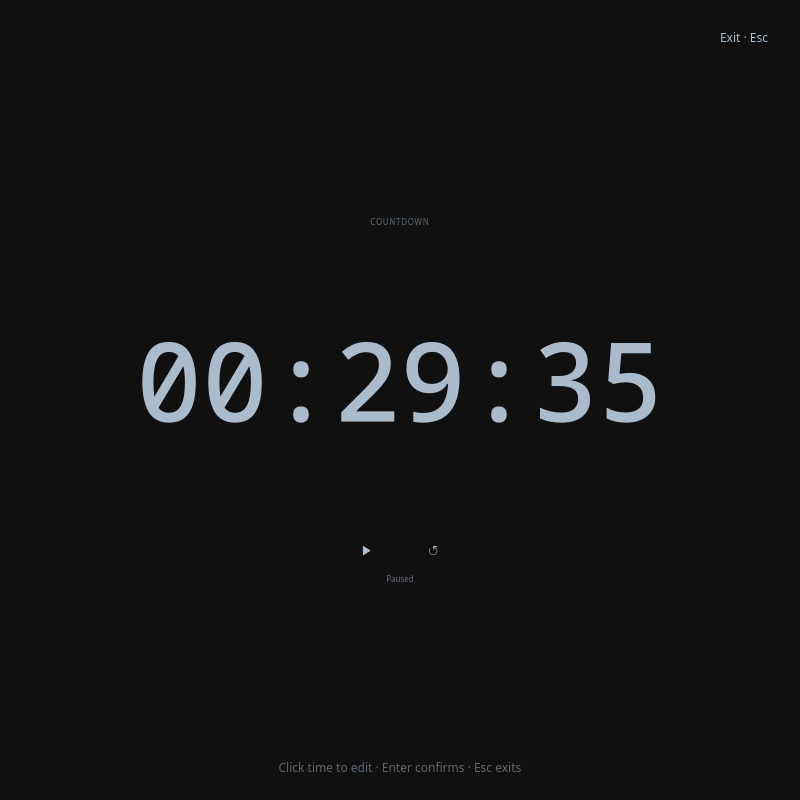
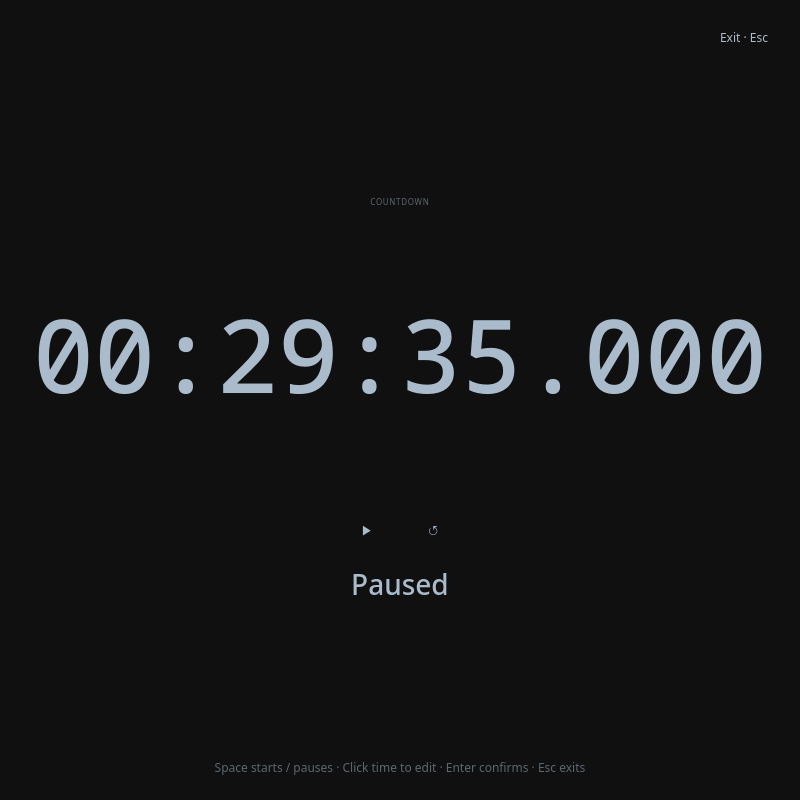
update

diff --git a/widget-mode/core/plasmoid/contents/ui/ClockFace.qml b/widget-mode/core/plasmoid/contents/ui/ClockFace.qml
@@ -11,7 +11,16 @@ Item {
     property color ink: "#f5f5f4"
     property string style: "minimal"
     property bool focusPresentation: false
-    readonly property real seconds: reading.seconds || 0
+    property real sampledAt: Date.now()
+    property real animationNow: sampledAt
+    onReadingChanged: { sampledAt = Date.now(); animationNow = sampledAt }
+    readonly property real elapsed: reading.running && !owner.error ? Math.max(0, Math.min(1, (animationNow - sampledAt) / 1000)) : 0
+    readonly property real seconds: Math.max(0, (reading.seconds || 0) + (kind === "countdown" ? -elapsed : elapsed))
+    Timer {
+        interval: 16; repeat: true
+        running: face.visible && face.reading.running === true
+        onTriggered: face.animationNow = Date.now()
+    }
     readonly property bool ring: style === "ring"
     property bool editing: false
     property string editError: ""
@@ -55,7 +64,12 @@ Item {
         editing = false
         editError = ""
     }
-    function timeText(value) {
+    function timeText(value, milliseconds = false) {
+        if (milliseconds) {
+            const ms = Math.max(0, Math.floor(value * 1000))
+            const whole = Math.floor(ms / 1000)
+            return String(Math.floor(whole / 3600)).padStart(2, "0") + ":" + String(Math.floor(whole / 60) % 60).padStart(2, "0") + ":" + String(whole % 60).padStart(2, "0") + "." + String(ms % 1000).padStart(3, "0")
+        }
         const seconds = Math.max(0, kind === "countdown" ? Math.ceil(value) : Math.floor(value))
         const hours = Math.floor(seconds / 3600)
         return (String(hours).padStart(2, "0") + ":") + String(Math.floor(seconds / 60) % 60).padStart(2, "0") + ":" + String(seconds % 60).padStart(2, "0")
@@ -72,15 +86,15 @@ Item {
         spacing: 0
     Text { Layout.fillWidth: true; text: face.kind === "countdown" ? "COUNTDOWN" : "STOPWATCH"; color: face.ink; opacity: 0.5; font.pixelSize: 8; horizontalAlignment: Text.AlignHCenter; font.letterSpacing: 0.7 }
         SmallButton {
-            objectName: "countdownFocus"
-            visible: face.kind === "countdown" && !face.focusPresentation
+            objectName: face.kind + "Focus"
+            visible: !face.focusPresentation
             implicitWidth: 22; implicitHeight: 24
             text: "⛶"; ink: face.ink
             enabled: face.owner.session.length > 0 && !face.editing
-            Accessible.name: "Open countdown in fullscreen Focus Mode"
+            Accessible.name: "Open " + face.kind + " in fullscreen Focus Mode"
             ToolTip.visible: hovered
             ToolTip.text: "Focus Mode"
-            onClicked: face.owner.openFocus()
+            onClicked: face.owner.openFocus(face.kind)
         }
     }
     Item {
@@ -117,13 +131,13 @@ Item {
             anchors.centerIn: parent
             width: parent.width
             visible: !face.editing
-            text: face.timeText(face.seconds)
+            text: face.timeText(face.seconds, true)
             color: face.ink
-            font.pixelSize: face.focusPresentation ? (face.ring ? 48 : 110) : face.ring ? 14 : 20
+            font.pixelSize: face.focusPresentation ? (face.ring ? 30 : 110) : face.ring ? 10 : 20
             font.family: face.style === "digital" ? "monospace" : ""
             font.weight: face.style === "digital" ? Font.Medium : Font.Light
             horizontalAlignment: Text.AlignHCenter
-            fontSizeMode: Text.Fit; minimumPixelSize: 10
+            fontSizeMode: Text.Fit; minimumPixelSize: face.focusPresentation ? 10 : 8
             MouseArea { anchors.fill: parent; cursorShape: Qt.IBeamCursor; onClicked: face.beginEdit() }
         }
         TextField {
@@ -174,6 +188,16 @@ Item {
         }
 
     }
-    Text { Layout.fillWidth: true; text: face.reading.finished ? "Done" : face.reading.running ? "Running" : "Paused"; color: face.ink; opacity: 0.55; font.pixelSize: 8; horizontalAlignment: Text.AlignHCenter }
+    Text {
+        objectName: face.kind + "Status"
+        Layout.fillWidth: true
+        Layout.topMargin: face.focusPresentation ? 12 : 0
+        text: face.reading.finished ? "Done" : face.reading.running ? "Running" : "Paused"
+        color: face.ink
+        opacity: face.focusPresentation ? 1 : 0.55
+        font.pixelSize: face.focusPresentation ? 28 : 8
+        font.weight: face.focusPresentation ? Font.DemiBold : Font.Normal
+        horizontalAlignment: Text.AlignHCenter
+    }
     }
 }

diff --git a/widget-mode/core/plasmoid/contents/ui/CountdownFocus.qml b/widget-mode/core/plasmoid/contents/ui/CountdownFocus.qml
@@ -4,13 +4,14 @@ import QtQuick.Window
 Window {
     id: focusWindow
     required property var owner
-    objectName: "countdownFocusWindow"
-    title: "Countdown · Focus Mode"
+    readonly property string kind: owner.focusKind
+    objectName: kind + "FocusWindow"
+    title: (kind === "countdown" ? "Countdown" : "Stopwatch") + " · Focus Mode"
     width: 960; height: 640
     color: "#101010"
     visible: true
     visibility: Window.FullScreen
-    readonly property color ink: /^#[0-9a-fA-F]{6}$/.test(owner.preferences.countdownColor || "") ? owner.preferences.countdownColor : "#f5f5f4"
+    readonly property color ink: /^#[0-9a-fA-F]{6}$/.test(owner.preferences[kind + "Color"] || "") ? owner.preferences[kind + "Color"] : "#f5f5f4"
     function exitFocus() { owner.focusOpen = false }
     onClosing: close => {
         close.accepted = false
@@ -18,8 +19,17 @@ Window {
     }
     Component.onCompleted: { requestActivate(); clock.forceActiveFocus() }
     Shortcut { sequence: "Escape"; onActivated: focusWindow.exitFocus() }
+    Shortcut {
+        sequence: "Space"
+        autoRepeat: false
+        enabled: !clock.editing
+        onActivated: {
+            if (focusWindow.owner.session && !focusWindow.owner.busy && !clock.reading.finished)
+                focusWindow.owner.control(focusWindow.kind, clock.reading.running ? "pause" : "start")
+        }
+    }
     SmallButton {
-        objectName: "exitCountdownFocus"
+        objectName: focusWindow.kind + "ExitFocus"
         anchors.top: parent.top; anchors.right: parent.right
         anchors.margins: 24
         text: "Exit · Esc"; ink: focusWindow.ink
@@ -27,20 +37,20 @@ Window {
     }
     ClockFace {
         id: clock
-        objectName: "focusCountdownFace"
+        objectName: focusWindow.kind === "countdown" ? "focusCountdownFace" : "focusStopwatchFace"
         anchors.centerIn: parent
         width: Math.max(100, Math.min(900, focusWindow.width - 64))
         height: implicitHeight
         owner: focusWindow.owner
-        kind: "countdown"
+        kind: focusWindow.kind
         focusPresentation: true
         ink: focusWindow.ink
-        style: owner.preferences.countdownStyle || "minimal"
+        style: owner.preferences[kind + "Style"] || "minimal"
     }
     Text {
         anchors.bottom: parent.bottom; anchors.horizontalCenter: parent.horizontalCenter
         anchors.bottomMargin: 24
-        text: focusWindow.owner.error || "Click time to edit · Enter confirms · Esc exits"
+        text: focusWindow.owner.error || "Space starts / pauses · Click time to edit · Enter confirms · Esc exits"
         color: focusWindow.ink; opacity: 0.5
         font.pixelSize: 12
         width: parent.width - 48

diff --git a/widget-mode/core/tests/tst_power_timers.qml b/widget-mode/core/tests/tst_power_timers.qml
@@ -139,7 +139,7 @@ Item {
             keyClick(Qt.Key_Return)
             compare(prefs.countdownSeconds, 30)
             tryVerify(() => owner.readings.countdown.seconds === 30 && !owner.readings.countdown.running, 3000)
-            compare(findChild(board, "countdownTime").text, "00:00:30")
+            compare(findChild(board, "countdownTime").text, "00:00:30.000")
             for (const sample of [{input: "23000", seconds: 9000, display: "02:30:00"},
                                   {input: "2935", seconds: 1775, display: "00:29:35"},
                                   {input: "5", seconds: 5, display: "00:00:05"},
@@ -149,7 +149,7 @@ Item {
                 keyClick(Qt.Key_Return)
                 compare(prefs.countdownSeconds, sample.seconds)
                 tryVerify(() => owner.readings.countdown.seconds === sample.seconds && !owner.readings.countdown.running, 3000)
-                compare(findChild(board, "countdownTime").text, sample.display)
+                compare(findChild(board, "countdownTime").text, sample.display + ".000")
             }
             for (const invalid of ["0", "2960", "6000", "240001", "1234567"]) {
                 enterTime("countdown", invalid)

diff --git a/widget-mode/core/tests/FocusFixture.qml b/widget-mode/core/tests/FocusFixture.qml
@@ -10,9 +10,12 @@ Window {
         property int stopwatchSeconds: 0
         property string countdownColor: "#aabbcc"
         property string countdownStyle: "digital"
+        property string stopwatchColor: "#88ddaa"
+        property string stopwatchStyle: "digital"
     }
     TimerOwner { id: timers; objectName: "focusTimerOwner"; preferences: prefs; active: true }
     ClockFace { anchors.fill: parent; owner: timers; kind: "countdown" }
+    ClockFace { x: 320; width: 200; height: 150; owner: timers; kind: "stopwatch" }
     function start() { timers.control("countdown", "start") }
     function preset(seconds) { timers.setTime("countdown", seconds) }
 }

diff --git a/widget-mode/core/plasmoid/contents/ui/TimerOwner.qml b/widget-mode/core/plasmoid/contents/ui/TimerOwner.qml
@@ -11,9 +11,10 @@ Item {
     property bool completionAcknowledged: false
     property bool countdownEditing: false
     property bool focusOpen: false
+    property string focusKind: "countdown"
     readonly property var focusWindow: focusLoader.item
-    function openFocus() {
-        if (active && session) focusOpen = true
+    function openFocus(kind = "countdown") {
+        if (active && session && ["countdown", "stopwatch"].includes(kind)) { focusKind = kind; focusOpen = true }
     }
     Loader {
         id: focusLoader

diff --git a/widget-mode/core/tests/focus_mode.py b/widget-mode/core/tests/focus_mode.py
@@ -55,19 +55,32 @@ assert reading()['running'] and reading()['seconds'] <= before
 QTest.qWait(100)
 assert window.findChild(QObject, 'focusCountdownFace').property('ink').name() == '#aabbcc', (window.property('ink').name(), warnings)
 wait_for(lambda: not owner.property('busy'))
-button(window, 'countdownToggle')
+QTest.keyClick(window, Qt.Key_Space)
+wait_for(lambda: not reading()['running'])
+status = window.findChild(QObject, 'countdownStatus')
+assert status.property('text') == 'Paused' and status.property('opacity') == 1
+assert status.property('font').pixelSize() == 28
+wait_for(lambda: not owner.property('busy'))
+QTest.keyClick(window, Qt.Key_Space)
+wait_for(lambda: reading()['running'])
+assert status.property('text') == 'Running'
+wait_for(lambda: not owner.property('busy'))
+QTest.keyClick(window, Qt.Key_Space)
 wait_for(lambda: not reading()['running'])
 paused = reading()['seconds']
 QTest.keyClick(window, Qt.Key_Escape)
 wait_for(lambda: not owner.property('focusOpen'))
 QTest.qWait(400)
 assert reading()['seconds'] == paused and owner.property('session') == token
-invoke(owner, 'openFocus')
+assert QMetaObject.invokeMethod(owner, 'openFocus', Q_ARG('QVariant', 'countdown'))
 window = owner.property('focusWindow')
 assert reading()['seconds'] == paused
 face = window.findChild(QObject, 'focusCountdownFace')
 invoke(face, 'beginEdit')
 field = window.findChild(QObject, 'countdownTimeInput')
+QTest.keyClick(window, Qt.Key_Space)
+QTest.qWait(100)
+assert not reading()['running'], 'Space in time editor must not start countdown'
 field.setProperty('text', '2935')
 QTest.keyClick(window, Qt.Key_Return)
 wait_for(lambda: reading()['seconds'] == 1775 and not reading()['running'])
@@ -79,7 +92,7 @@ field.setProperty('text', '123')
 QTest.keyClick(window, Qt.Key_Escape)
 wait_for(lambda: not owner.property('focusOpen'))
 assert not owner.property('countdownEditing') and reading()['seconds'] == 1775
-invoke(owner, 'openFocus')
+assert QMetaObject.invokeMethod(owner, 'openFocus', Q_ARG('QVariant', 'countdown'))
 window = owner.property('focusWindow')
 # Native close is an exit, and leaves the shared paused countdown intact.
 window.close()
@@ -87,15 +100,60 @@ wait_for(lambda: not owner.property('focusOpen'))
 assert owner.property('session') == token and reading()['seconds'] == 1775
 assert QMetaObject.invokeMethod(root, 'preset', Q_ARG('QVariant', 1))
 wait_for(lambda: reading()['seconds'] == 1 and not owner.property('busy'))
-invoke(owner, 'openFocus')
+assert QMetaObject.invokeMethod(owner, 'openFocus', Q_ARG('QVariant', 'countdown'))
 window = owner.property('focusWindow')
 face = window.findChild(QObject, 'focusCountdownFace')
 button(window, 'countdownToggle')
 wait_for(lambda: owner.property('countdownFinished'))
 assert face.property('blinking')
+QTest.keyClick(window, Qt.Key_Space)
+QTest.qWait(100)
+assert owner.property('countdownFinished'), 'Space must not reset a finished countdown'
 QTest.keyClick(window, Qt.Key_Return)
 wait_for(lambda: not owner.property('countdownFinished') and reading()['seconds'] == 1)
 assert not face.property('blinking') and not reading()['running']
+QTest.keyClick(window, Qt.Key_Escape)
+wait_for(lambda: not owner.property('focusOpen'))
+button(root, 'stopwatchFocus')
+window = owner.property('focusWindow')
+QTest.qWait(100)
+wait_for(lambda: window.visibility() == QWindow.FullScreen)
+face = window.findChild(QObject, 'focusStopwatchFace')
+assert face and face.property('ink').name() == '#88ddaa'
+assert owner.property('session') == token
+text = window.findChild(QObject, 'stopwatchTime')
+assert text.property('text') == '00:00:00.000'
+wait_for(lambda: not owner.property('busy'))
+QTest.keyClick(window, Qt.Key_Space)
+wait_for(lambda: owner.property('readings').toVariant()['stopwatch']['running'])
+QTest.qWait(120)
+assert text.property('text') != '00:00:00.000'
+assert len(text.property('text').split('.')[-1]) == 3
+assert reading()['seconds'] == 1 and not reading()['running'], 'Stopwatch must not control countdown'
+wait_for(lambda: not owner.property('busy'))
+QTest.keyClick(window, Qt.Key_Space)
+wait_for(lambda: not owner.property('readings').toVariant()['stopwatch']['running'])
+frozen = text.property('text')
+QTest.qWait(350)
+assert text.property('text') == frozen
+assert window.findChild(QObject, 'stopwatchStatus').property('text') == 'Paused'
+assert window.grabWindow().save(str(Path(__file__).parents[2] / 'docs/preview-stopwatch-focus.png'))
+QTest.keyClick(window, Qt.Key_Escape)
+wait_for(lambda: not owner.property('focusOpen'))
+button(root, 'stopwatchFocus')
+window = owner.property('focusWindow')
+QTest.qWait(100)
+assert window.findChild(QObject, 'stopwatchTime').property('text') == frozen
+face = window.findChild(QObject, 'focusStopwatchFace')
+invoke(face, 'beginEdit')
+window.findChild(QObject, 'stopwatchTimeInput').setProperty('text', '00:00:08')
+QTest.keyClick(window, Qt.Key_Return)
+wait_for(lambda: owner.property('readings').toVariant()['stopwatch']['seconds'] == 8)
+assert window.findChild(QObject, 'stopwatchTime').property('text') == '00:00:08.000'
+wait_for(lambda: not owner.property('busy'))
+button(window, 'stopwatchReset')
+wait_for(lambda: not owner.property('busy'))
+assert owner.property('readings').toVariant()['stopwatch']['seconds'] == 8
 # Hiding the module also destroys its fullscreen window and closes its session.
 owner.setProperty('active', False)
 wait_for(lambda: owner.property('focusWindow') is None)
@@ -104,4 +162,4 @@ assert not warnings, '\n'.join(warnings)
 root.close()
 engine.deleteLater()
 app.processEvents()
-print('Focus Mode: fullscreen, shared progress, pause, edit, Esc/close, completion Enter and module cleanup passed; no QML warnings.')
+print('Countdown/stopwatch fullscreen and milliseconds passed. Focus Mode: fullscreen, shared progress, Space start/pause, prominent status, edit, Esc/close, completion Enter and module cleanup passed; no QML warnings.')

diff --git a/widget-mode/core/description.md b/widget-mode/core/description.md
@@ -32,3 +32,15 @@ Two-column to-dos (1.12.0): NoteBoard composes the existing NoteCard and appende
 The countdown header opens a dedicated fullscreen Qt Quick window. TimerOwner lazily owns CountdownFocus and shares its existing backend session with the desktop clock; opening, closing, Escape and native window close do not configure/reset the timer. The fullscreen ClockFace retains configured color/style, optional-colon time editing, pause/reset and completion blinking with Enter acknowledgement. Its dark background is local to the focus window; the desktop remains transparent. Closing the module or destroying its owner releases the window. Focus Mode does not change the power profile or acquire sleep inhibition; use the existing Battery control if needed.
 
 `tests/focus_mode.py` uses an isolated timer session and actual Qt window/key events to verify fullscreen visibility, shared progress, pause, edit, Escape/native close, completion Enter and module cleanup. It runs offscreen and does not establish physical Wayland compositor behavior. Evidence and deployment results are recorded in [../docs/focus-mode-validation.md](../docs/focus-mode-validation.md).
+
+
+1.14.1: Fullscreen Focus Mode accepts Space to start/pause, without auto-repeat. The shortcut consumes Space outside the time editor and checks session/busy/finished state before controlling the countdown; time editing retains normal key handling. Focus status text uses 28px semibold at full opacity; desktop status remains compact. The focus integration test covers Space pause/resume, editor isolation, completion protection and status presentation.
+
+
+### Version 1.15 — stopwatch Focus Mode and milliseconds
+
+Both clocks now have a fullscreen header action. The existing CountdownFocus component selects TimerOwner.focusKind, including its title, controls, configured color/style and large status. A single lazily owned window uses the existing timer session; Space operates only the selected clock and is disabled during time editing.
+
+Desktop and fullscreen displays use HH:MM:SS.mmm. A local 16ms display timer interpolates between existing 250ms bridge samples; pause freezes at the backend fractional value, and countdown clamps at zero. Interpolation is capped at one second and stops on bridge errors. The backend remains the authoritative monotonic timer, including completion; the three digits describe display precision, not a guarantee of one-millisecond refresh/accuracy. Input and persisted presets remain whole seconds. Small ring typography is adjusted to fit the additional digits.
+
+Validation: expanded real-window offscreen integration tests cover stopwatch Space start/pause, independent countdown state, frozen fractional time, reopening, editing and reset, alongside the countdown completion/keyboard regressions. Nine power/timer QML checks passed. See [../docs/focus-mode-validation.md](../docs/focus-mode-validation.md) for deployment and limits.

diff --git a/widget-mode/core/README.md b/widget-mode/core/README.md
@@ -15,7 +15,7 @@ A transparent modular KDE Plasma 6 desktop widget.
 
 Run these commands from `monitor/widget-mode/core`. Start the bridge and preview in separate terminals. Stop the foreground bridge with Ctrl+C before installing the background service. After installation, add **someProducts-monitor** through the desktop's **Add Widgets** menu. See [../docs/README.md](../docs/README.md) for dependencies, configuration, service checks and removal.
 
-Configure → Modules enables Battery and Timers. Battery controls the system power profile and automatic sleep/screen-off inhibition. Configure → Timers sets countdown and stopwatch times, colors and styles. Click either dashboard time to enter HH:MM:SS and press Enter. Countdown also accepts digits without colons: 23000 → 02:30:00, 2935 → 00:29:35. At zero, the countdown area blinks; with countdown/widget focused, Enter stops blinking and resets it to its saved time, paused. Click the countdown header’s **⛶** button to enter fullscreen **Focus Mode**. Click the time to edit; Start/Pause/Reset and completion blinking work there too. Press **Esc** or **Exit** to return to the desktop; the same countdown continues without resetting. Focus Mode uses a dark background and your configured countdown color/style. With both Battery and Timers enabled, battery sits left and stopwatch/countdown stack on the right.
+Configure → Modules enables Battery and Timers. Battery controls the system power profile and automatic sleep/screen-off inhibition. Configure → Timers sets countdown and stopwatch times, colors and styles. Click either dashboard time to enter HH:MM:SS and press Enter. Countdown also accepts digits without colons: 23000 → 02:30:00, 2935 → 00:29:35. At zero, the countdown area blinks; with countdown/widget focused, Enter stops blinking and resets it to its saved time, paused. Both clocks display **HH:MM:SS.mmm**; editing still uses whole-second HH:MM:SS (countdown also accepts digits). Click either clock header’s **⛶** button to enter fullscreen **Focus Mode**. Click the time to edit; Start/Pause/Reset and completion blinking work there too. In fullscreen, press **Space** to start/pause; the larger **Paused / Running / Done** label shows the current status. Space does not control the countdown while editing its time. Press **Esc** or **Exit** to return to the desktop; the same clock continues without resetting. Focus Mode uses a dark background and the selected clock’s configured color/style. With both Battery and Timers enabled, battery sits left and stopwatch/countdown stack on the right.
 
 Drag the note's bottom border to resize its height; the current profile remembers it. Click **Save** in the note's top-right corner to choose a folder and filename and export UTF-8 text.
 

diff --git a/widget-mode/docs/focus-mode-validation.md b/widget-mode/docs/focus-mode-validation.md
@@ -38,3 +38,46 @@ Fullscreen/key behavior was tested using Qt's offscreen platform. Physical
 Wayland compositor placement, multi-monitor selection and mouse operation still
 need desktop confirmation. Opening or closing Focus preserves progress; a Plasma
 shell/bridge restart still ends the existing in-memory timer session.
+
+## 1.14.1 — Space control and prominent status
+
+Validated and installed on 2026-10-17. Fullscreen Space starts/pauses the shared
+countdown. Auto-repeat is disabled; busy/finished states are guarded. The time
+editor retains normal key handling. Focus status is now 28px semibold at full
+opacity. Desktop status remains 8px at its existing opacity.
+
+The updated focus integration test passed with actual Space key events for
+pause/resume, editor isolation and completion protection, plus assertions for
+status text, font size and opacity. The 9 existing power/timer QML checks passed;
+the two changed QML files have zero lint diagnostics. The updated fullscreen
+render was inspected. Physical Wayland input remains a manual check.
+
+Installed source matches version 1.14.1; widget 163 retained all settings and
+geometry across refresh. Both bridge and Plasma services are active. No Git
+actions were performed. Logs: [focus](focus-mode-test.log),
+[timer regression](focus-mode-power-regression.log),
+[lint](focus-mode-qmllint.log).
+
+## 1.15.0 — stopwatch fullscreen and milliseconds
+
+Validated and installed on 2026-10-18. Both desktop clocks display HH:MM:SS.mmm
+and have fullscreen actions. Focus Mode chooses the corresponding shared clock,
+color/style and controls; Space starts/pauses that clock. Editing keeps the
+existing whole-second format and optional-colon countdown shortcuts.
+
+The 16ms local display update interpolates backend fractional samples without
+increasing HTTP polling. It clamps countdown at zero, freezes paused values,
+caps extrapolation at one second and stops extrapolating on bridge errors.
+Actual completion remains backend-controlled; millisecond digits indicate
+display precision rather than a one-millisecond update/accuracy guarantee.
+
+The expanded focus integration test passed: both fullscreen clocks, Space,
+independent countdown/stopwatch state, three-digit fractions, paused stability,
+exit/reopen, stopwatch editing/reset, and countdown completion/Enter regression.
+No QML warnings. Nine existing power/timer QML checks passed. Three modified
+QML files have zero lint diagnostics. The stopwatch fullscreen screenshot was
+visually inspected: [render](preview-stopwatch-focus.png).
+
+Installed files match source; widget 163 retained all settings and geometry.
+Bridge and Plasma services are active. No Git actions were performed.
+Physical Wayland compositor behavior remains a manual check.
